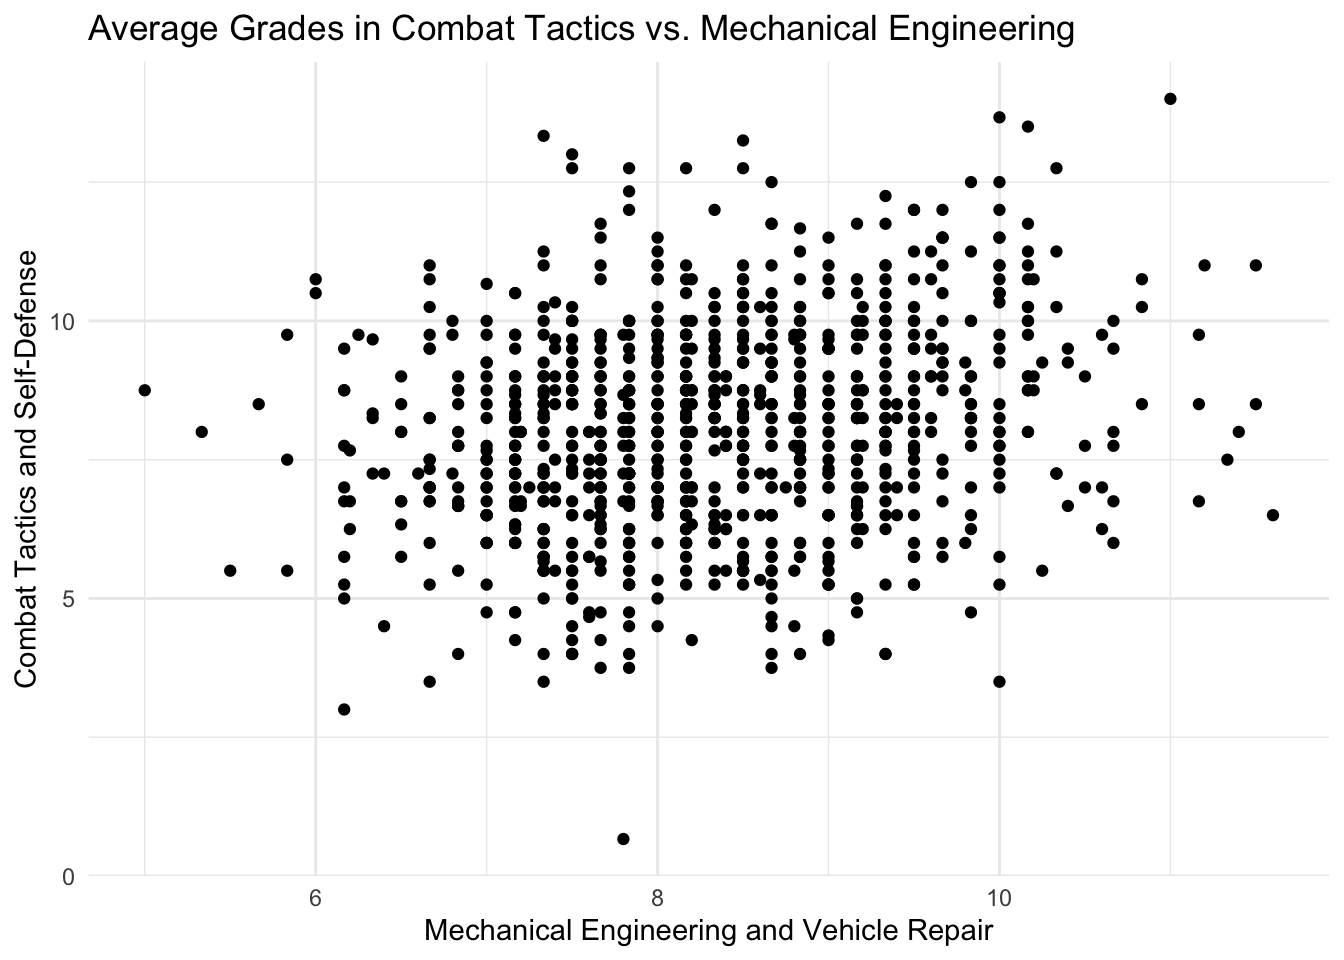
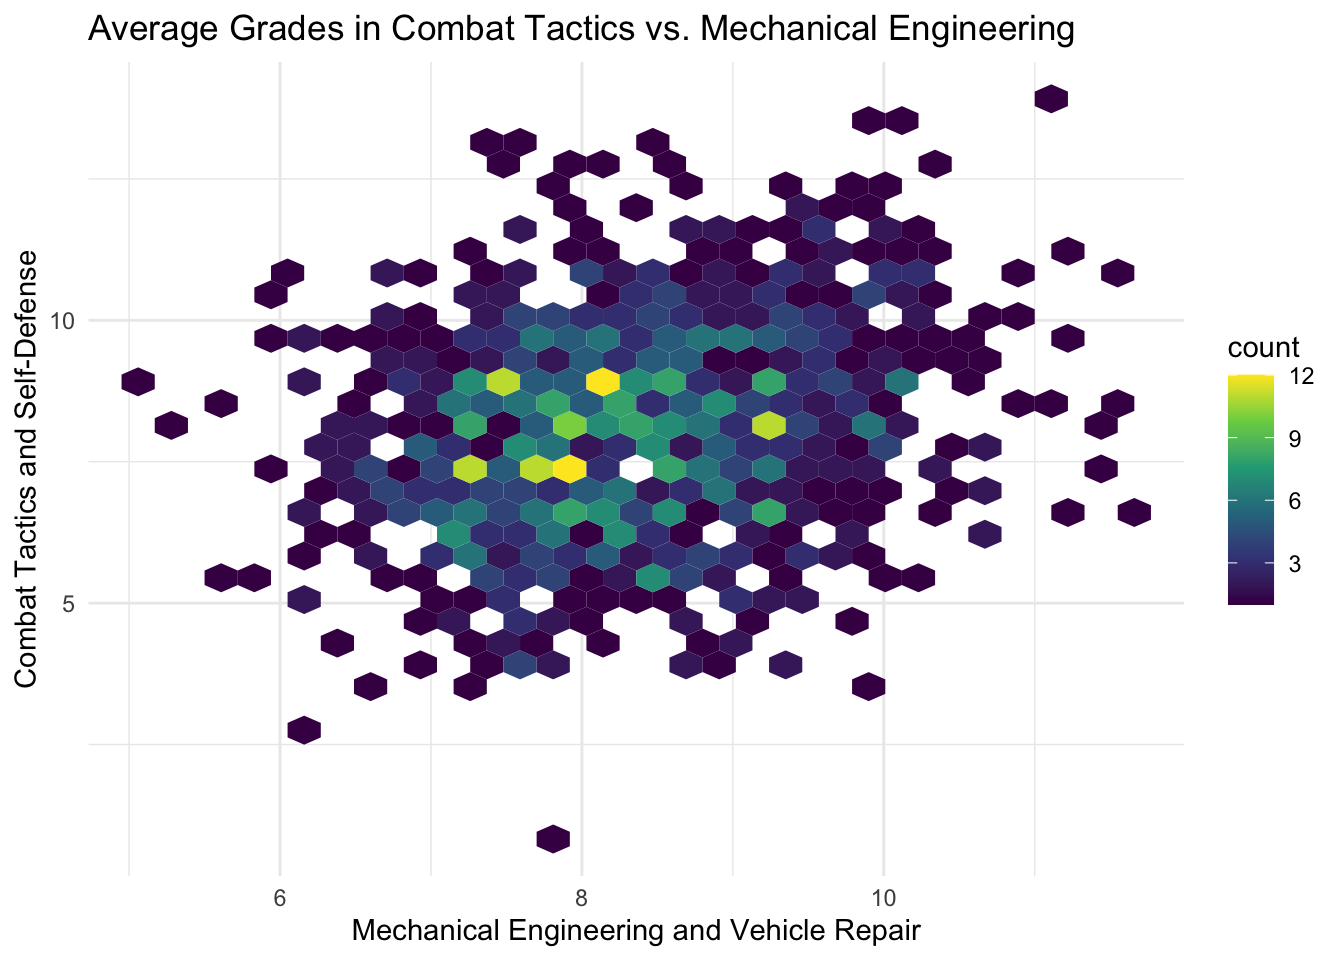
Question 15 + some changes to question 14

diff --git a/Martinez.html b/Martinez.html
@@ -441,9 +441,10 @@ pre > code.sourceCode > span > a:first-child::before { text-decoration: underlin
 <h1>Q13</h1>
 <div class="cell">
 <div class="sourceCode cell-code" id="cb14"><pre class="sourceCode r code-with-copy"><code class="sourceCode r"><span id="cb14-1"><a href="#cb14-1" aria-hidden="true" tabindex="-1"></a><span class="fu">ggplot</span>(average_grades_per_course, <span class="fu">aes</span>(<span class="at">x =</span> <span class="st">`</span><span class="at">Mechanical Engineering and Vehicle Repair</span><span class="st">`</span>, <span class="at">y =</span> <span class="st">`</span><span class="at">Combat Tactics and Self-Defense</span><span class="st">`</span>)) <span class="sc">+</span></span>
-<span id="cb14-2"><a href="#cb14-2" aria-hidden="true" tabindex="-1"></a>  <span class="fu">geom_point</span>() <span class="sc">+</span></span>
-<span id="cb14-3"><a href="#cb14-3" aria-hidden="true" tabindex="-1"></a>  <span class="fu">labs</span>(<span class="at">title =</span> <span class="st">"Average Grades in Combat Tactics vs. Mechanical Engineering"</span>, <span class="at">x =</span> <span class="st">"Mechanical Engineering and Vehicle Repair"</span>, <span class="at">y =</span> <span class="st">"Combat Tactics and Self-Defense"</span>) <span class="sc">+</span></span>
-<span id="cb14-4"><a href="#cb14-4" aria-hidden="true" tabindex="-1"></a>  <span class="fu">theme_minimal</span>()</span></code><button title="Copy to Clipboard" class="code-copy-button"><i class="bi"></i></button></pre></div>
+<span id="cb14-2"><a href="#cb14-2" aria-hidden="true" tabindex="-1"></a>  <span class="fu">geom_hex</span>() <span class="sc">+</span></span>
+<span id="cb14-3"><a href="#cb14-3" aria-hidden="true" tabindex="-1"></a>  <span class="fu">scale_fill_viridis_c</span>() <span class="sc">+</span></span>
+<span id="cb14-4"><a href="#cb14-4" aria-hidden="true" tabindex="-1"></a>  <span class="fu">labs</span>(<span class="at">title =</span> <span class="st">"Average Grades in Combat Tactics vs. Mechanical Engineering"</span>, <span class="at">x =</span> <span class="st">"Mechanical Engineering and Vehicle Repair"</span>, <span class="at">y =</span> <span class="st">"Combat Tactics and Self-Defense"</span>) <span class="sc">+</span></span>
+<span id="cb14-5"><a href="#cb14-5" aria-hidden="true" tabindex="-1"></a>  <span class="fu">theme_minimal</span>()</span></code><button title="Copy to Clipboard" class="code-copy-button"><i class="bi"></i></button></pre></div>
 <div class="cell-output-display">
 <div>
 <figure class="figure">
@@ -456,10 +457,12 @@ pre > code.sourceCode > span > a:first-child::before { text-decoration: underlin
 <section id="q14" class="level1">
 <h1>Q14</h1>
 <div class="cell">
-<div class="sourceCode cell-code" id="cb15"><pre class="sourceCode r code-with-copy"><code class="sourceCode r"><span id="cb15-1"><a href="#cb15-1" aria-hidden="true" tabindex="-1"></a>average_grades_per_course <span class="sc">%&gt;%</span></span>
+<div class="sourceCode cell-code" id="cb15"><pre class="sourceCode r code-with-copy"><code class="sourceCode r"><span id="cb15-1"><a href="#cb15-1" aria-hidden="true" tabindex="-1"></a>correlation_by_group <span class="ot">&lt;-</span> average_grades_per_course <span class="sc">%&gt;%</span></span>
 <span id="cb15-2"><a href="#cb15-2" aria-hidden="true" tabindex="-1"></a>  <span class="fu">group_by</span>(group) <span class="sc">%&gt;%</span></span>
-<span id="cb15-3"><a href="#cb15-3" aria-hidden="true" tabindex="-1"></a>  <span class="fu">summarise</span>(<span class="at">correlation =</span> <span class="fu">cor</span>(<span class="st">`</span><span class="at">Moral Philosophy and Ethical Decision-Making</span><span class="st">`</span>, <span class="st">`</span><span class="at">Post-Apocalyptic History and Archaeology</span><span class="st">`</span>, <span class="at">use =</span> <span class="st">"complete.obs"</span>))  <span class="sc">%&gt;%</span></span>
-<span id="cb15-4"><a href="#cb15-4" aria-hidden="true" tabindex="-1"></a>  knitr<span class="sc">::</span><span class="fu">kable</span>()</span></code><button title="Copy to Clipboard" class="code-copy-button"><i class="bi"></i></button></pre></div>
+<span id="cb15-3"><a href="#cb15-3" aria-hidden="true" tabindex="-1"></a>  <span class="fu">summarise</span>(<span class="at">correlation =</span> <span class="fu">cor</span>(<span class="st">`</span><span class="at">Moral Philosophy and Ethical Decision-Making</span><span class="st">`</span>, <span class="st">`</span><span class="at">Post-Apocalyptic History and Archaeology</span><span class="st">`</span>, <span class="at">use =</span> <span class="st">"complete.obs"</span>)) </span>
+<span id="cb15-4"><a href="#cb15-4" aria-hidden="true" tabindex="-1"></a></span>
+<span id="cb15-5"><a href="#cb15-5" aria-hidden="true" tabindex="-1"></a>correlation_by_group <span class="sc">%&gt;%</span></span>
+<span id="cb15-6"><a href="#cb15-6" aria-hidden="true" tabindex="-1"></a>  knitr<span class="sc">::</span><span class="fu">kable</span>()</span></code><button title="Copy to Clipboard" class="code-copy-button"><i class="bi"></i></button></pre></div>
 <div class="cell-output-display">
 <table class="caption-top table table-sm table-striped small">
 <thead>
@@ -548,6 +551,27 @@ pre > code.sourceCode > span > a:first-child::before { text-decoration: underlin
 </section>
 <section id="q15" class="level1">
 <h1>Q15</h1>
+<div class="cell">
+<div class="sourceCode cell-code" id="cb16"><pre class="sourceCode r code-with-copy"><code class="sourceCode r"><span id="cb16-1"><a href="#cb16-1" aria-hidden="true" tabindex="-1"></a>top_group <span class="ot">&lt;-</span> correlation_by_group <span class="sc">%&gt;%</span></span>
+<span id="cb16-2"><a href="#cb16-2" aria-hidden="true" tabindex="-1"></a>  <span class="fu">filter</span>(<span class="fu">abs</span>(correlation) <span class="sc">==</span> <span class="fu">max</span>(<span class="fu">abs</span>(correlation))) <span class="sc">%&gt;%</span></span>
+<span id="cb16-3"><a href="#cb16-3" aria-hidden="true" tabindex="-1"></a>  <span class="fu">pull</span>(group)</span>
+<span id="cb16-4"><a href="#cb16-4" aria-hidden="true" tabindex="-1"></a></span>
+<span id="cb16-5"><a href="#cb16-5" aria-hidden="true" tabindex="-1"></a>top_group_data <span class="ot">&lt;-</span> average_grades_per_course <span class="sc">%&gt;%</span></span>
+<span id="cb16-6"><a href="#cb16-6" aria-hidden="true" tabindex="-1"></a>  <span class="fu">filter</span>(group <span class="sc">==</span> top_group)</span>
+<span id="cb16-7"><a href="#cb16-7" aria-hidden="true" tabindex="-1"></a></span>
+<span id="cb16-8"><a href="#cb16-8" aria-hidden="true" tabindex="-1"></a><span class="fu">ggplot</span>(top_group_data, <span class="fu">aes</span>(<span class="at">x =</span> <span class="st">`</span><span class="at">Post-Apocalyptic History and Archaeology</span><span class="st">`</span>, <span class="at">y =</span> <span class="st">`</span><span class="at">Moral Philosophy and Ethical Decision-Making</span><span class="st">`</span>)) <span class="sc">+</span></span>
+<span id="cb16-9"><a href="#cb16-9" aria-hidden="true" tabindex="-1"></a>  <span class="fu">geom_hex</span>() <span class="sc">+</span></span>
+<span id="cb16-10"><a href="#cb16-10" aria-hidden="true" tabindex="-1"></a>  <span class="fu">scale_fill_viridis_c</span>() <span class="sc">+</span></span>
+<span id="cb16-11"><a href="#cb16-11" aria-hidden="true" tabindex="-1"></a>  <span class="fu">labs</span>(<span class="at">title =</span> <span class="fu">paste</span>(<span class="st">"Grades in Moral Philosophy vs. History for Group"</span>, top_group), <span class="at">x =</span> <span class="st">"Post-Apocalyptic History and Archaeology"</span>, <span class="at">y =</span> <span class="st">"Moral Philosophy and Ethical Decision-Making"</span>) <span class="sc">+</span></span>
+<span id="cb16-12"><a href="#cb16-12" aria-hidden="true" tabindex="-1"></a>  <span class="fu">theme_minimal</span>()</span></code><button title="Copy to Clipboard" class="code-copy-button"><i class="bi"></i></button></pre></div>
+<div class="cell-output-display">
+<div>
+<figure class="figure">
+<p><img src="Martinez_files/figure-html/unnamed-chunk-14-1.png" class="img-fluid figure-img" width="672"></p>
+</figure>
+</div>
+</div>
+</div>
 </section>
 
 </main>
